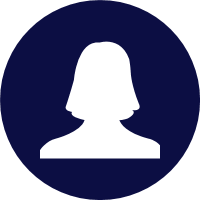
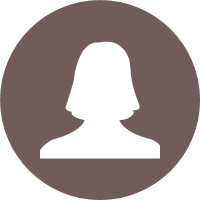
slight tweaks to awards on homepage

diff --git a/Warhammer/Warhammer.Mvc/Controllers/PageController.cs b/Warhammer/Warhammer.Mvc/Controllers/PageController.cs
@@ -133,6 +133,12 @@ namespace Warhammer.Mvc.Controllers
                     return File(personPath, "image/jpeg");
                 }
 
+                if (page is Person)
+                {
+                    var personPath = Path.Combine(defaultDir, "page-person.png");
+                    return File(personPath, "image/jpeg");
+                }
+
                 if (page is SessionLog)
                 {
                     SessionLog log = page as SessionLog;
